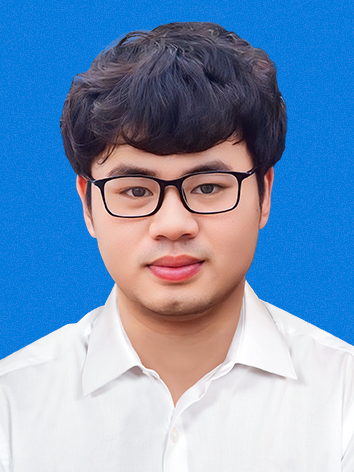
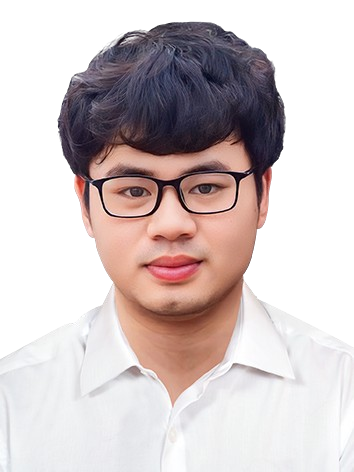
change avater, background

diff --git a/index.html b/index.html
@@ -11,7 +11,8 @@
     <style>
         :root {
             --primary-color: #2c3e50;
-            --secondary-color: #3498db;
+            --secondary-color: #f4a261;
+            /* Changed to light orange */
             --accent-color: #e74c3c;
             --text-light: #7f8c8d;
             --gradient-bg: linear-gradient(135deg, #667eea 0%, #764ba2 100%);
@@ -19,12 +20,12 @@
 
         body {
             font-family: 'Segoe UI', Tahoma, Geneva, Verdana, sans-serif;
-            color: var(--primary-color);
+            color: var(--secondary-color);
             line-height: 1.6;
         }
 
         .hero-section {
-            background: var(--gradient-bg);
+            background: var(--secondary-color);
             color: white;
             padding: 100px 0;
             position: relative;
@@ -58,7 +59,6 @@
             background-size: contain;
             background-repeat: no-repeat;
             background-position: center;
-
             display: flex;
             align-items: center;
             justify-content: center;
@@ -71,7 +71,6 @@
         .avatar:hover {
             transform: scale(1.05);
         }
-
 
         .hero-content h1 {
             font-size: 3.5rem;
@@ -96,7 +95,7 @@
         }
 
         .contact-links a:hover {
-            color: var(--accent-color);
+            color: var(--secondary-color);
             transform: translateY(-2px);
         }
 
@@ -110,7 +109,7 @@
             text-align: center;
             margin-bottom: 3rem;
             position: relative;
-            color: var(--primary-color);
+            color: var(--secondary-color);
         }
 
         .section-title::after {
@@ -177,7 +176,7 @@
         }
 
         .project-header {
-            background: var(--gradient-bg);
+            background: var(--secondary-color);
             color: white;
             padding: 25px;
             position: relative;
@@ -279,7 +278,7 @@
         }
 
         .btn-primary {
-            background: var(--gradient-bg);
+            background: var(--secondary-color);
             border: none;
             padding: 12px 30px;
             border-radius: 25px;
@@ -305,8 +304,12 @@
         .floating-shapes span {
             position: absolute;
             display: block;
-            background: rgba(255, 255, 255, 0.1);
+            background: rgba(255, 255, 255, 0.116);
             animation: float 6s ease-in-out infinite;
+        }
+
+        .navbar-brand {
+            color: var(--secondary-color) !important;
         }
 
         @keyframes float {
@@ -417,7 +420,11 @@
                 <div class="col-lg-8">
                     <div class="text-center" data-aos="fade-up" data-aos-delay="200">
                         <p class="lead text-muted">
-                            I am a fourth-year Software Engineering student with a strong interest in backend development, particularly using Java. I have a solid foundation in Java Core and Object-Oriented Programming (OOP), and I have successfully built several personal projects utilizing JSP/Servlet and Spring Boot frameworks with relational databases such as MySQL and SQL Server.
+                            I am a fourth-year Software Engineering student with a strong interest in backend
+                            development, particularly using Java. I have a solid foundation in Java Core and
+                            Object-Oriented Programming (OOP), and I have successfully built several personal projects
+                            utilizing JSP/Servlet and Spring Boot frameworks with relational databases such as MySQL and
+                            SQL Server.
                         </p>
                     </div>
                 </div>
@@ -433,7 +440,7 @@
             <div class="row">
                 <div class="col-lg-4 col-md-6" data-aos="fade-up" data-aos-delay="100">
                     <div class="skill-card">
-                        <h4><i class="fas fa-code text-primary me-2"></i>Programming
+                        <h4><i class="fas fa-code text-white me-2" style="background-color: var(--secondary-color)"></i>Programming
                             Languages</h4>
                         <div>
                             <span class="skill-tag">Java (Core Java, Java
@@ -447,7 +454,7 @@
                 </div>
                 <div class="col-lg-4 col-md-6" data-aos="fade-up" data-aos-delay="200">
                     <div class="skill-card">
-                        <h4><i class="fas fa-tools text-primary me-2"></i>Frameworks
+                        <h4><i class="fas fa-code text-white me-2" style="background-color: var(--secondary-color)"></i>Frameworks
                             & Tools</h4>
                         <div>
                             <span class="skill-tag">Spring Boot</span>
@@ -463,7 +470,7 @@
                 </div>
                 <div class="col-lg-4 col-md-6" data-aos="fade-up" data-aos-delay="300">
                     <div class="skill-card">
-                        <h4><i class="fas fa-cogs text-primary me-2"></i>Other
+                        <h4><i class="fas fa-code text-white me-2" style="background-color: var(--secondary-color)"></i>Other
                             Skills</h4>
                         <div>
                             <span class="skill-tag">RESTful API</span>
@@ -508,7 +515,7 @@
                             </div>
                         </div>
                         <div class="project-content">
-                            <h6 class="text-primary mb-3">Key Features:</h6>
+                            <h6 class="text-black mb-3" >Key Features:</h6>
                             <ul class="feature-list">
                                 <li>Show a list of products</li>
                                 <li>Add products to shopping cart (CRUD)
@@ -516,8 +523,8 @@
                                 <li>Search by category name/ textbox</li>
                                 <li>Checkout</li>
                             </ul>
-                            <a href="https://github.com/thevinh20012003/E-Commerce-Website.git" class="btn btn-primary mt-3"
-                                target="_blank">
+                            <a href="https://github.com/thevinh20012003/E-Commerce-Website.git"
+                                class="btn btn-primary mt-3" target="_blank">
                                 <i class="fab fa-github me-2"></i>View on
                                 GitHub
                             </a>
@@ -529,7 +536,10 @@
                         <div class="project-header">
                             <h4><i class="fas fa-book me-2"></i>Job Portal Web Application</h4>
                             <p class="mb-3">
-                                A full-stack web application that allows users to register as job seekers or recruiters, post and apply for jobs, manage user profiles, and perform job searches. The platform simulates a real-world job portal with authentication, authorization, and user role-based access
+                                A full-stack web application that allows users to register as job seekers or recruiters,
+                                post and apply for jobs, manage user profiles, and perform job searches. The platform
+                                simulates a real-world job portal with authentication, authorization, and user
+                                role-based access
                             </p>
                             <div>
                                 <span class="project-tech">Spring
@@ -541,15 +551,19 @@
                             </div>
                         </div>
                         <div class="project-content">
-                            <h6 class="text-primary mb-3">Key Features:</h6>
+                            <h6 class="text-black mb-3">Key Features:</h6>
                             <ul class="feature-list">
-                                <li>Developed backend logic with Spring Boot and designed key entities (Users, JobPost, Apply, Save, etc.).</li>
-                                <li>Built REST APIs for job posting, user registration, job search with filters (type, location, date).</li>
-                                <li>Integrated Thymeleaf for frontend rendering and implemented job save/apply status logic.</li>
-                                <li>Wrote custom SQL queries with @Query in JPA and structured code in Controller–Service–Repository layers.</li>
+                                <li>Developed backend logic with Spring Boot and designed key entities (Users, JobPost,
+                                    Apply, Save, etc.).</li>
+                                <li>Built REST APIs for job posting, user registration, job search with filters (type,
+                                    location, date).</li>
+                                <li>Integrated Thymeleaf for frontend rendering and implemented job save/apply status
+                                    logic.</li>
+                                <li>Wrote custom SQL queries with @Query in JPA and structured code in
+                                    Controller–Service–Repository layers.</li>
                             </ul>
-                            <a href=" https://github.com/thevinh20012003/job-portal.git"
-                                class="btn btn-primary mt-3" target="_blank">
+                            <a href=" https://github.com/thevinh20012003/job-portal.git" class="btn btn-primary mt-3"
+                                target="_blank">
                                 <i class="fab fa-github me-2"></i>View on
                                 GitHub
                             </a>
@@ -560,7 +574,9 @@
                     <div class="project-card">
                         <div class="project-header">
                             <h4><i class="fas fa-book me-2"></i>CoffeeFlow</h4>
-                            <p class="mb-3">CoffeeFlow is an Android app designed to help coffee shop owners streamline operations, monitor staff activity, and apply promotional strategies. Built with MVVM and Clean Architecture, the system ensures scalability and code maintainability.</p>
+                            <p class="mb-3">CoffeeFlow is an Android app designed to help coffee shop owners streamline
+                                operations, monitor staff activity, and apply promotional strategies. Built with MVVM
+                                and Clean Architecture, the system ensures scalability and code maintainability.</p>
                             <div>
                                 <span class="project-tech">Java</span>
                                 <span class="project-tech">Singleton, Factory, Observe</span>
@@ -571,15 +587,15 @@
                             </div>
                         </div>
                         <div class="project-content">
-                            <h6 class="text-primary mb-3">Key Features:</h6>
+                            <h6 class="text-black mb-3">Key Features:</h6>
                             <ul class="feature-list">
                                 <li>Developed core features using MVVM + Clean Architecture.</li>
                                 <li>Built reusable UI components and structured layers (UI, Domain, Data).</li>
                                 <li>Applied design patterns: Singleton, Factory, Observer.</li>
                                 <li>Integrated LiveData, DataBinding, and Android Fragments for UI and navigation</li>
                             </ul>
-                            <a href=" https://github.com/Linh-Rio/coffeeflow-android"
-                                class="btn btn-primary mt-3" target="_blank">
+                            <a href=" https://github.com/Linh-Rio/coffeeflow-android" class="btn btn-primary mt-3"
+                                target="_blank">
                                 <i class="fab fa-github me-2"></i>View on
                                 GitHub
                             </a>
@@ -591,7 +607,11 @@
                         <div class="project-header">
                             <h4><i class="fas fa-mobile-alt me-2"></i>Quizzcle</h4>
                             <p class="mb-3">
-                                Quizzcle is a web-based application built to support engaging and collaborative learning experiences. The platform allows users to create, share, and participate in quizzes. One key feature is the ability to create private or public quiz rooms to host tests for groups of users, encouraging a culture of interactive and continuous learning for both students and educators.
+                                Quizzcle is a web-based application built to support engaging and collaborative learning
+                                experiences. The platform allows users to create, share, and participate in quizzes. One
+                                key feature is the ability to create private or public quiz rooms to host tests for
+                                groups of users, encouraging a culture of interactive and continuous learning for both
+                                students and educators.
                             </p>
                             <div>
                                 <span class="project-tech">Java</span>
@@ -600,13 +620,17 @@
                             </div>
                         </div>
                         <div class="project-content">
-                            <h6 class="text-primary mb-3">Key
+                            <h6 class="text-black mb-3">Key
                                 Contributions:</h6>
                             <ul class="feature-list">
-                                <li>Designed and implemented the relational database schema to support dynamic quiz creation, room management, and user interaction.</li>
-                                <li>Developed core application logic and public/user-facing features using Java and standard web technologies.</li>
-                                <li>Built and maintained responsive user interfaces using HTML, CSS, JavaScript, and Bootstrap.</li>
-                                <li>Ensured cross-browser compatibility and performance optimization for seamless user experience.</li>
+                                <li>Designed and implemented the relational database schema to support dynamic quiz
+                                    creation, room management, and user interaction.</li>
+                                <li>Developed core application logic and public/user-facing features using Java and
+                                    standard web technologies.</li>
+                                <li>Built and maintained responsive user interfaces using HTML, CSS, JavaScript, and
+                                    Bootstrap.</li>
+                                <li>Ensured cross-browser compatibility and performance optimization for seamless user
+                                    experience.</li>
                             </ul>
                             <p><strong>Role:</strong> Android Developer</p>
                             <a href="https://github.com/llMeoUll/OnlineQuizz.git" class="btn btn-primary mt-3"
@@ -628,11 +652,11 @@
                 Certificates</h2>
             <div class="row">
                 <div class="col-lg-6" data-aos="fade-up" data-aos-delay="100">
-                    <h4 class="mb-4 text-primary">
+                    <h4 class="mb-4 text-black">
                         <i class="fas fa-graduation-cap me-2"></i>Education
                     </h4>
                     <div class="education-card">
-                        <h5 class="fw-bold text-primary">FPT University</h5>
+                        <h5 class="fw-bold text-black">FPT University</h5>
                         <p class="text-muted mb-2">Software Engineering</p>
                         <p class="text-muted mb-2">2021 – 2025
                             (Expected)</p>
@@ -640,36 +664,36 @@
                     </div>
                 </div>
                 <div class="col-lg-6" data-aos="fade-up" data-aos-delay="200">
-                    <h4 class="mb-4 text-primary">
+                    <h4 class="mb-4 text-black">
                         <i class="fas fa-certificate me-2"></i>Certificates
                     </h4>
                     <div class="timeline-item">
                         <div class="certificate-card">
-                            <h6 class="fw-bold">Agile Fundamentals Certification    </h6>
+                            <h6 class="fw-bold">Agile Fundamentals Certification </h6>
                             <p class="text-muted mb-1">2025</p>
                         </div>
                     </div>
                     <div class="timeline-item">
                         <div class="certificate-card">
-                            <h6 class="fw-bold"> Testing và Quản lý Kiểm thử trong Triển khai Dự án IT             </h6>
+                            <h6 class="fw-bold"> Testing và Quản lý Kiểm thử trong Triển khai Dự án IT </h6>
                             <p class="text-muted mb-1">2025</p>
                         </div>
                     </div>
                     <div class="timeline-item">
                         <div class="certificate-card">
                             <Spring class="fw-bold">Spring boot 3, Spring 6 & Hibernate for Beginners </h6>
+                                <p class="text-muted mb-1">2024</p>
+                        </div>
+                    </div>
+                    <div class="timeline-item">
+                        <div class="certificate-card">
+                            <h6 class="fw-bold">Software Development Lifecycle </h6>
                             <p class="text-muted mb-1">2024</p>
                         </div>
                     </div>
                     <div class="timeline-item">
                         <div class="certificate-card">
-                            <h6 class="fw-bold">Software Development Lifecycle  </h6>
-                            <p class="text-muted mb-1">2024</p>
-                        </div>
-                    </div>
-                    <div class="timeline-item">
-                        <div class="certificate-card">
-                            <h6 class="fw-bold">Project Management Principles and Practices  </h6>
+                            <h6 class="fw-bold">Project Management Principles and Practices </h6>
                             <p class="text-muted mb-1">2024</p>
                         </div>
                     </div>
@@ -681,13 +705,13 @@
                     </div>
                     <div class="timeline-item">
                         <div class="certificate-card">
-                            <h6 class="fw-bold">User Experience Research and Design       </h6>
+                            <h6 class="fw-bold">User Experience Research and Design </h6>
                             <p class="text-muted mb-1">2023</p>
                         </div>
                     </div>
                     <div class="timeline-item">
                         <div class="certificate-card">
-                            <h6 class="fw-bold">Computer Communications          </h6>
+                            <h6 class="fw-bold">Computer Communications </h6>
                             <p class="text-muted mb-1">2023</p>
                         </div>
                     </div>
@@ -734,7 +758,7 @@
     </section>
 
     <!-- Contact Section -->
-    <section id="contact" class="section bg-primary text-white">
+    <section id="contact" class="section text-white"  style="background-color: var(--secondary-color)">
         <div class="container">
             <div class="row justify-content-center text-center">
                 <div class="col-lg-8" data-aos="fade-up">
@@ -760,11 +784,11 @@
                         </div>
                     </div>
                     <div class="mt-4">
-                        <a href="https://www.linkedin.com/in/vinh-undefined-461366364/" class="btn btn-outline-light me-3" target="_blank">
+                        <a href="https://www.linkedin.com/in/vinh-undefined-461366364/"
+                            class="btn btn-outline-light me-3" target="_blank">
                             <i class="fab fa-linkedin me-2"></i>LinkedIn
                         </a>
-                        <a href="https://github.com/thevinh20012003" class="btn btn-outline-light me-3"
-                            target="_blank">
+                        <a href="https://github.com/thevinh20012003" class="btn btn-outline-light me-3" target="_blank">
                             <i class="fab fa-github me-2"></i>GitHub
                         </a>
                         <a href="https://github.com/thevinh20012003/github-portfilio" class="btn btn-outline-light"
